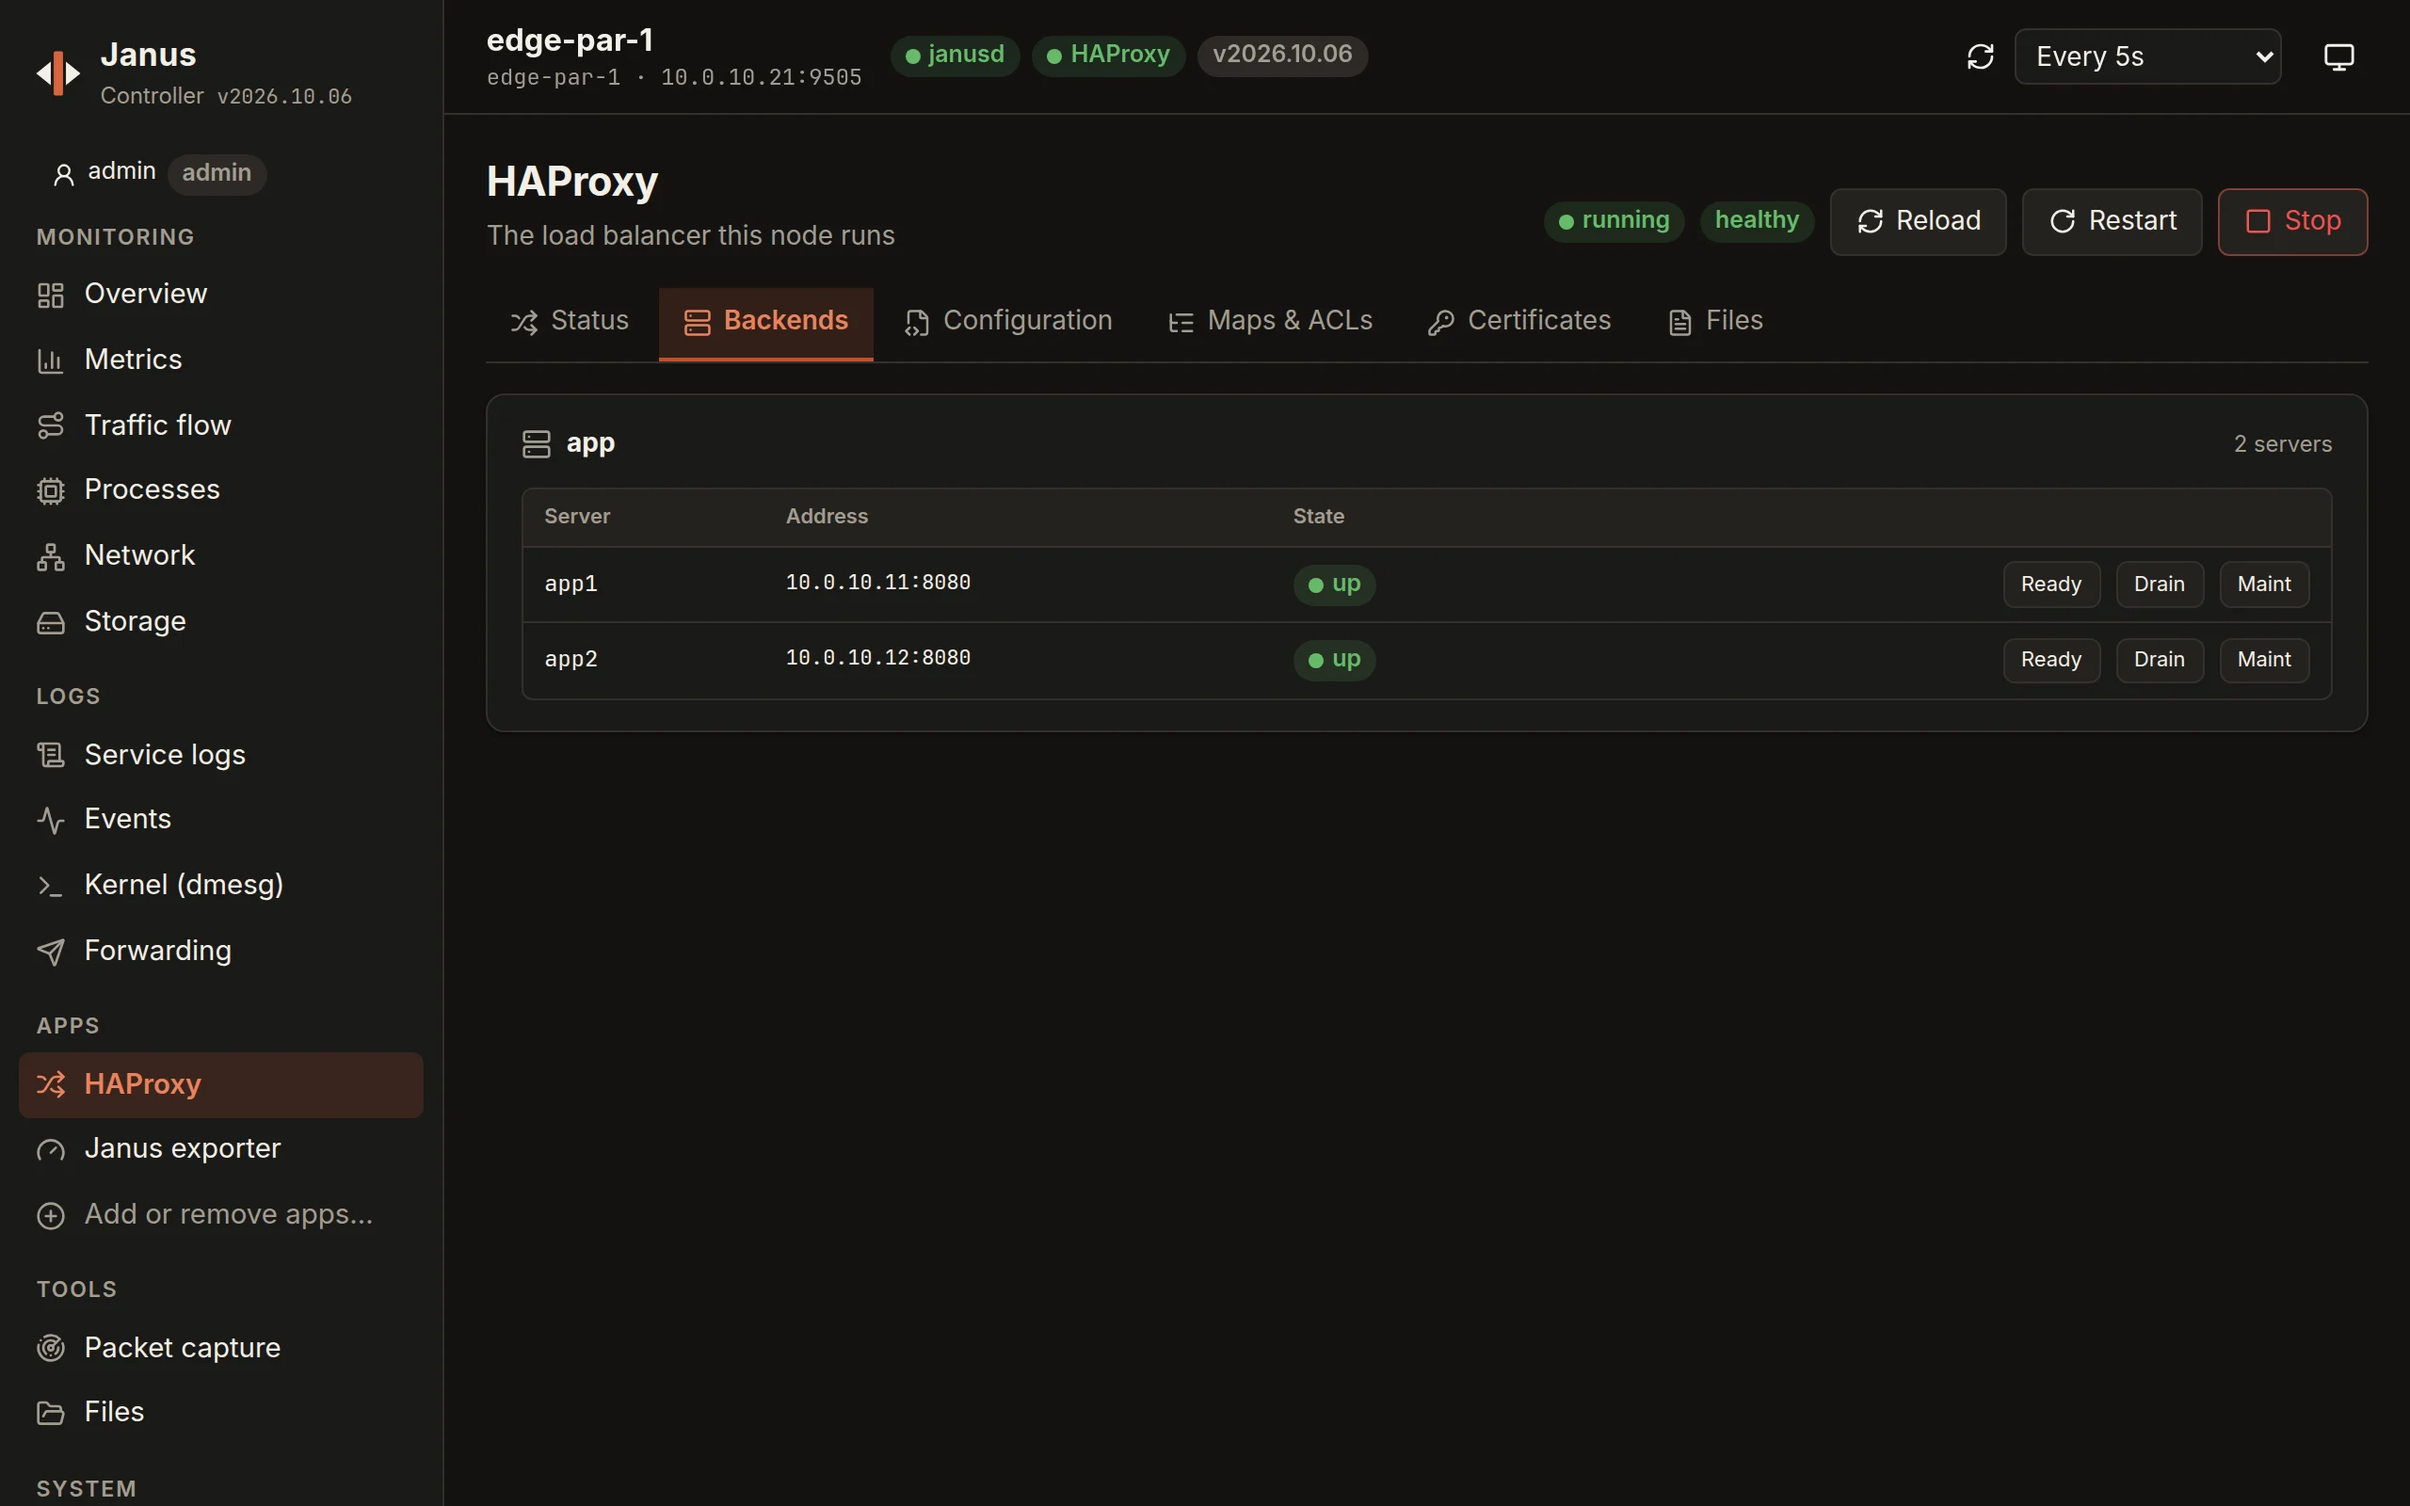
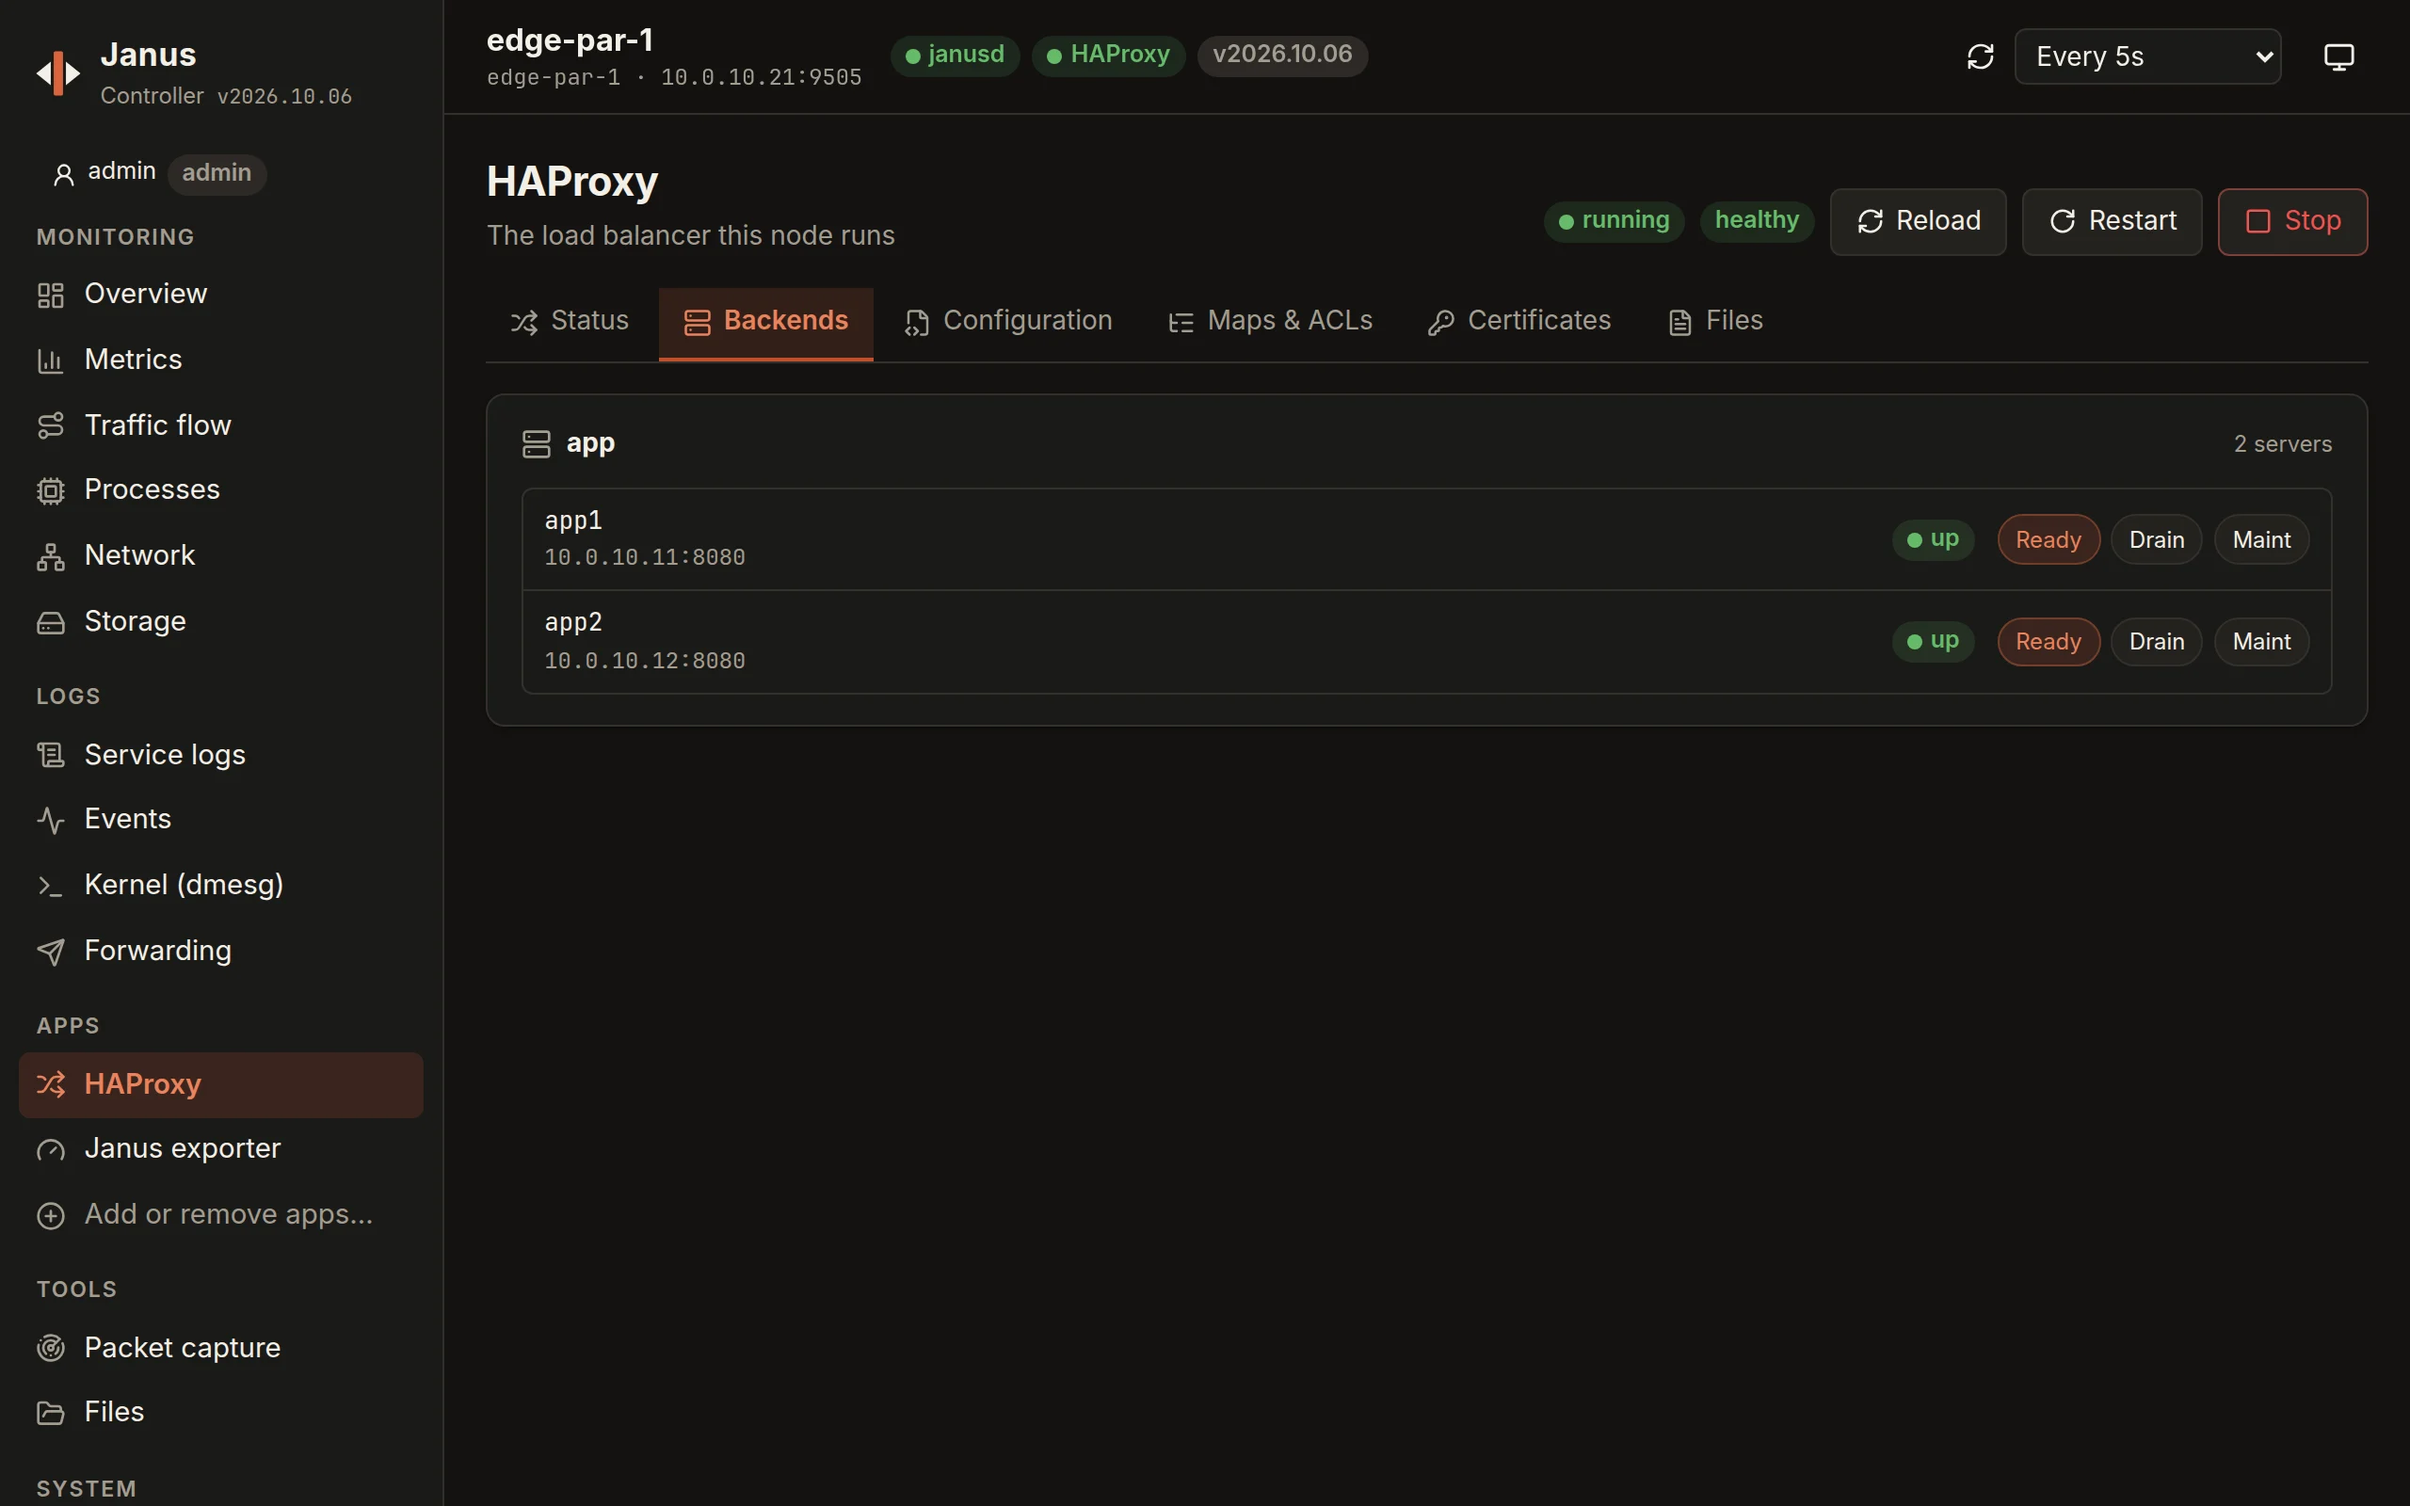
docs: HAProxy › Backends marks a server's state
haproxy-config.md says the tab marks the state each server has, a tile
per backend however many; its screenshot shows it (Ready marked). The
ui-preview's paragraph says edge-3 runs many backends.

diff --git a/docs/haproxy-config.md b/docs/haproxy-config.md
@@ -11,9 +11,10 @@ haproxy apply-config FILE` or the Controller's **HAProxy › Configuration**.
 ![HAProxy's configuration on a node's page: the editor with the running haproxy.cfg - here examples/haproxy/web.cfg - marked as matching the running configuration, and HAProxy's state with Reload, Restart and Stop](assets/screenshots/node-haproxy-config-light.webp)
 
 Its **Backends** tab shows each server's state, and sets it - ready,
-drain, maintenance - at runtime:
+drain, maintenance - at runtime, the one it has marked; a tile per
+backend, however many there are:
 
-![The Backends tab: the app backend's two servers, app1 and app2, up, each with Ready, Drain and Maint](assets/screenshots/node-haproxy-backends-light.webp)
+![The Backends tab: the app backend's two servers, app1 and app2, up, each with Ready - marked, the state they have -, Drain and Maint](assets/screenshots/node-haproxy-backends-light.webp)
 
 **Monitoring › Traffic flow** draws what the configuration does, live:
 the node's interfaces, HAProxy, each frontend linked to the backends its

diff --git a/docs/controller-ui.md b/docs/controller-ui.md
@@ -645,7 +645,8 @@ turn, and the step waited for is written under it.
    to look at a page or a `janusctl tui` screen yourself: the Controller
    and janusd built from the tree, three `local-dev` nodes under traffic
    that comes and goes - HTTP and TCP frontends - sending their logs to
-   rsyslog and Elasticsearch (edge-1 through two interfaces), a second
+   rsyslog and Elasticsearch (edge-1 through two interfaces; edge-3 runs
+   `many.cfg`, two dozen backends as a big load balancer has), a second
    account (lea's) on edge-1's page now and then and a janusctl
    following its events - the Traffic flow's Controller users and
    direct clients -, the Controller on `https://127.0.0.1:18443`
